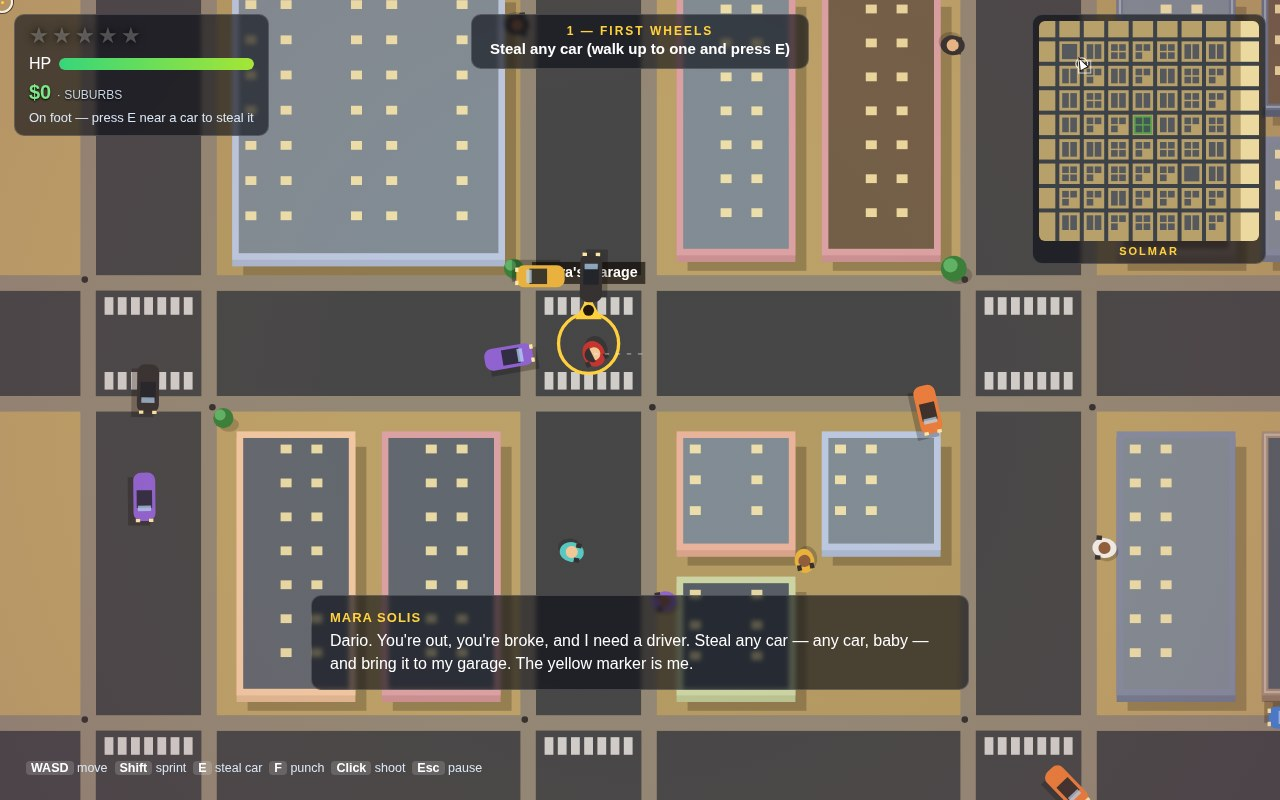
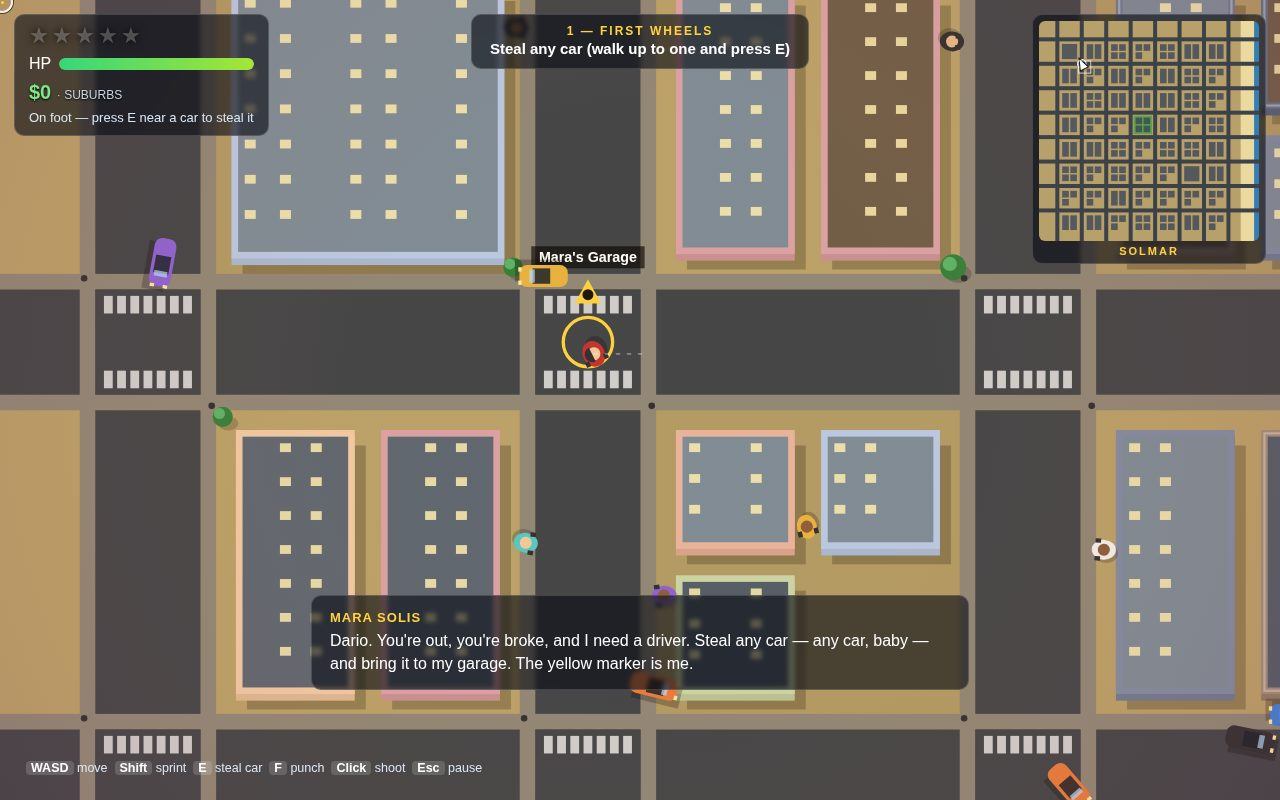
SOLMAR round 2: rebuild in a fresh recorded session
- Re-authored the full game in-session after the round-1 transcript rejection
- Chase screenshot: sturdier getaway car, chasers start farther back, 3-star heat holds for the shot
- Minimap: sea strip now actually paints on the east edge (was buried under the ground fill)
- Screenshots re-captured from the rebuilt game

diff --git a/game/src/shots.js b/game/src/shots.js
@@ -12,7 +12,7 @@ export function applyShot(game, name) {
   const police = game.police;
   const missions = game.missions;
   const putInCar = (x, y, angle, color, carName) => {
-    const car = new Car(x, y, angle, { color, name: carName || 'Comet', maxSpeed: 560 });
+    const car = new Car(x, y, angle, { color, name: carName || 'Comet', maxSpeed: 560, hp: 900 });
     car.driver = 'player';
     game.cars.push(car);
     p.car = car;
@@ -22,7 +22,9 @@ export function applyShot(game, name) {
   };
   const spawnChasers = (n) => {
     for (let i = 0; i < n; i++) {
-      const cop = new Car(p.x - 150 - i * 70, p.y + (i % 2 === 0 ? -30 : 30), 0, {
+      // Start a little farther back so the chase reads as a pursuit, not a
+      // pile-up, and the player's car survives the screenshot window.
+      const cop = new Car(p.x - 230 - i * 90, p.y + (i % 2 === 0 ? -40 : 40), 0, {
         color: '#1c2733', name: 'Interceptor', isPolice: true, maxSpeed: 660, accel: 480,
       });
       cop.driver = 'police';
@@ -44,7 +46,7 @@ export function applyShot(game, name) {
     missions.completed = 2;
     missions.startNext(); // sets wanted 2, marker at the Safehouse
     game.hud.hideDialogue(); // keep the chase frame clear of the briefing
-    police.addHeat(110, 'chase'); // 3 stars for the shot
+    police.addHeat(160, 'chase'); // 3 stars for the shot (heat decays a little first)
     spawnChasers(3);
     game.autopilot = { mode: 'drive' };
     game.shotZoom = 1.2;

diff --git a/game/src/hud.js b/game/src/hud.js
@@ -109,10 +109,11 @@ export class HUD {
     const ctx = c.getContext('2d');
     const S = c.width, k = S / WORLD;
     ctx.clearRect(0, 0, S, S);
-    // Sea + sand.
-    ctx.fillStyle = '#2f7fb8'; ctx.fillRect(0, 0, S, S);
+    // Ground first, then the beach strip and the sea on the east edge —
+    // painting the sea first would bury it under the ground fill.
     ctx.fillStyle = '#b8a06a'; ctx.fillRect(0, 0, S, S);
     ctx.fillStyle = '#ecd9a0'; ctx.fillRect(3300 * k, 0, 300 * k, S);
+    ctx.fillStyle = '#2f7fb8'; ctx.fillRect(3520 * k, 0, 80 * k, S);
     // Park.
     ctx.fillStyle = '#5da24a'; ctx.fillRect(1548 * k, 1548 * k, 304 * k, 304 * k);
     // Roads.
